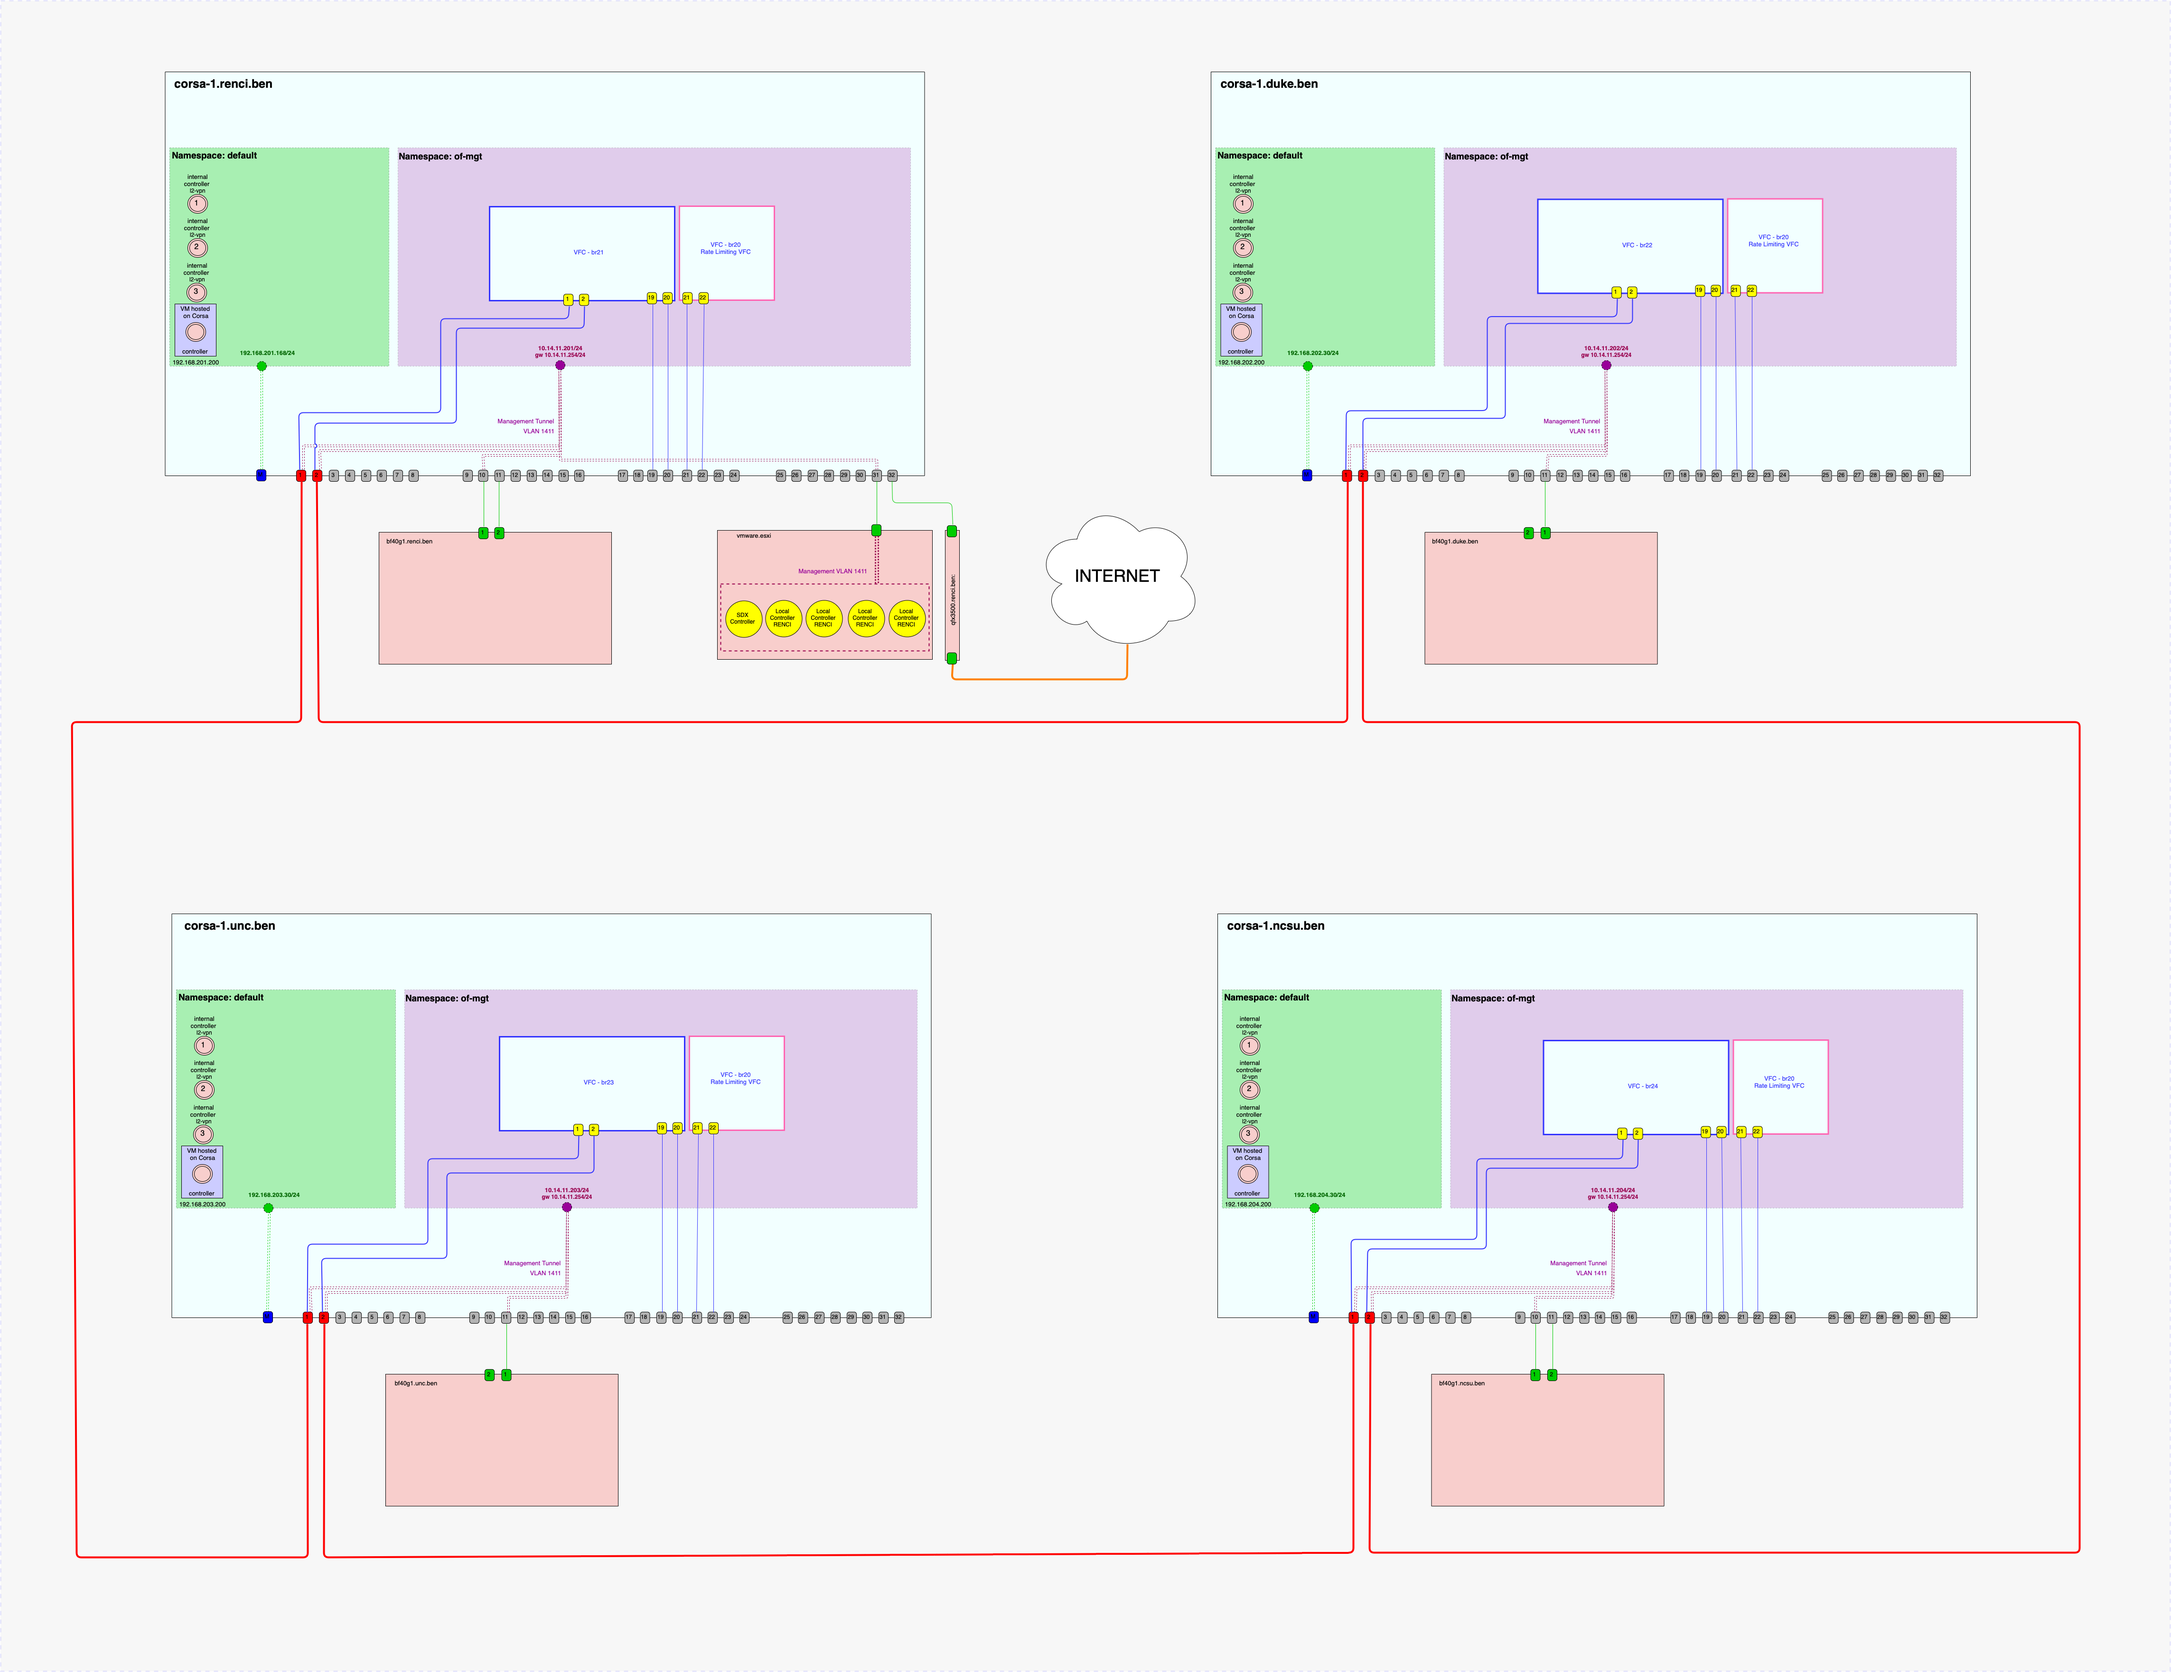
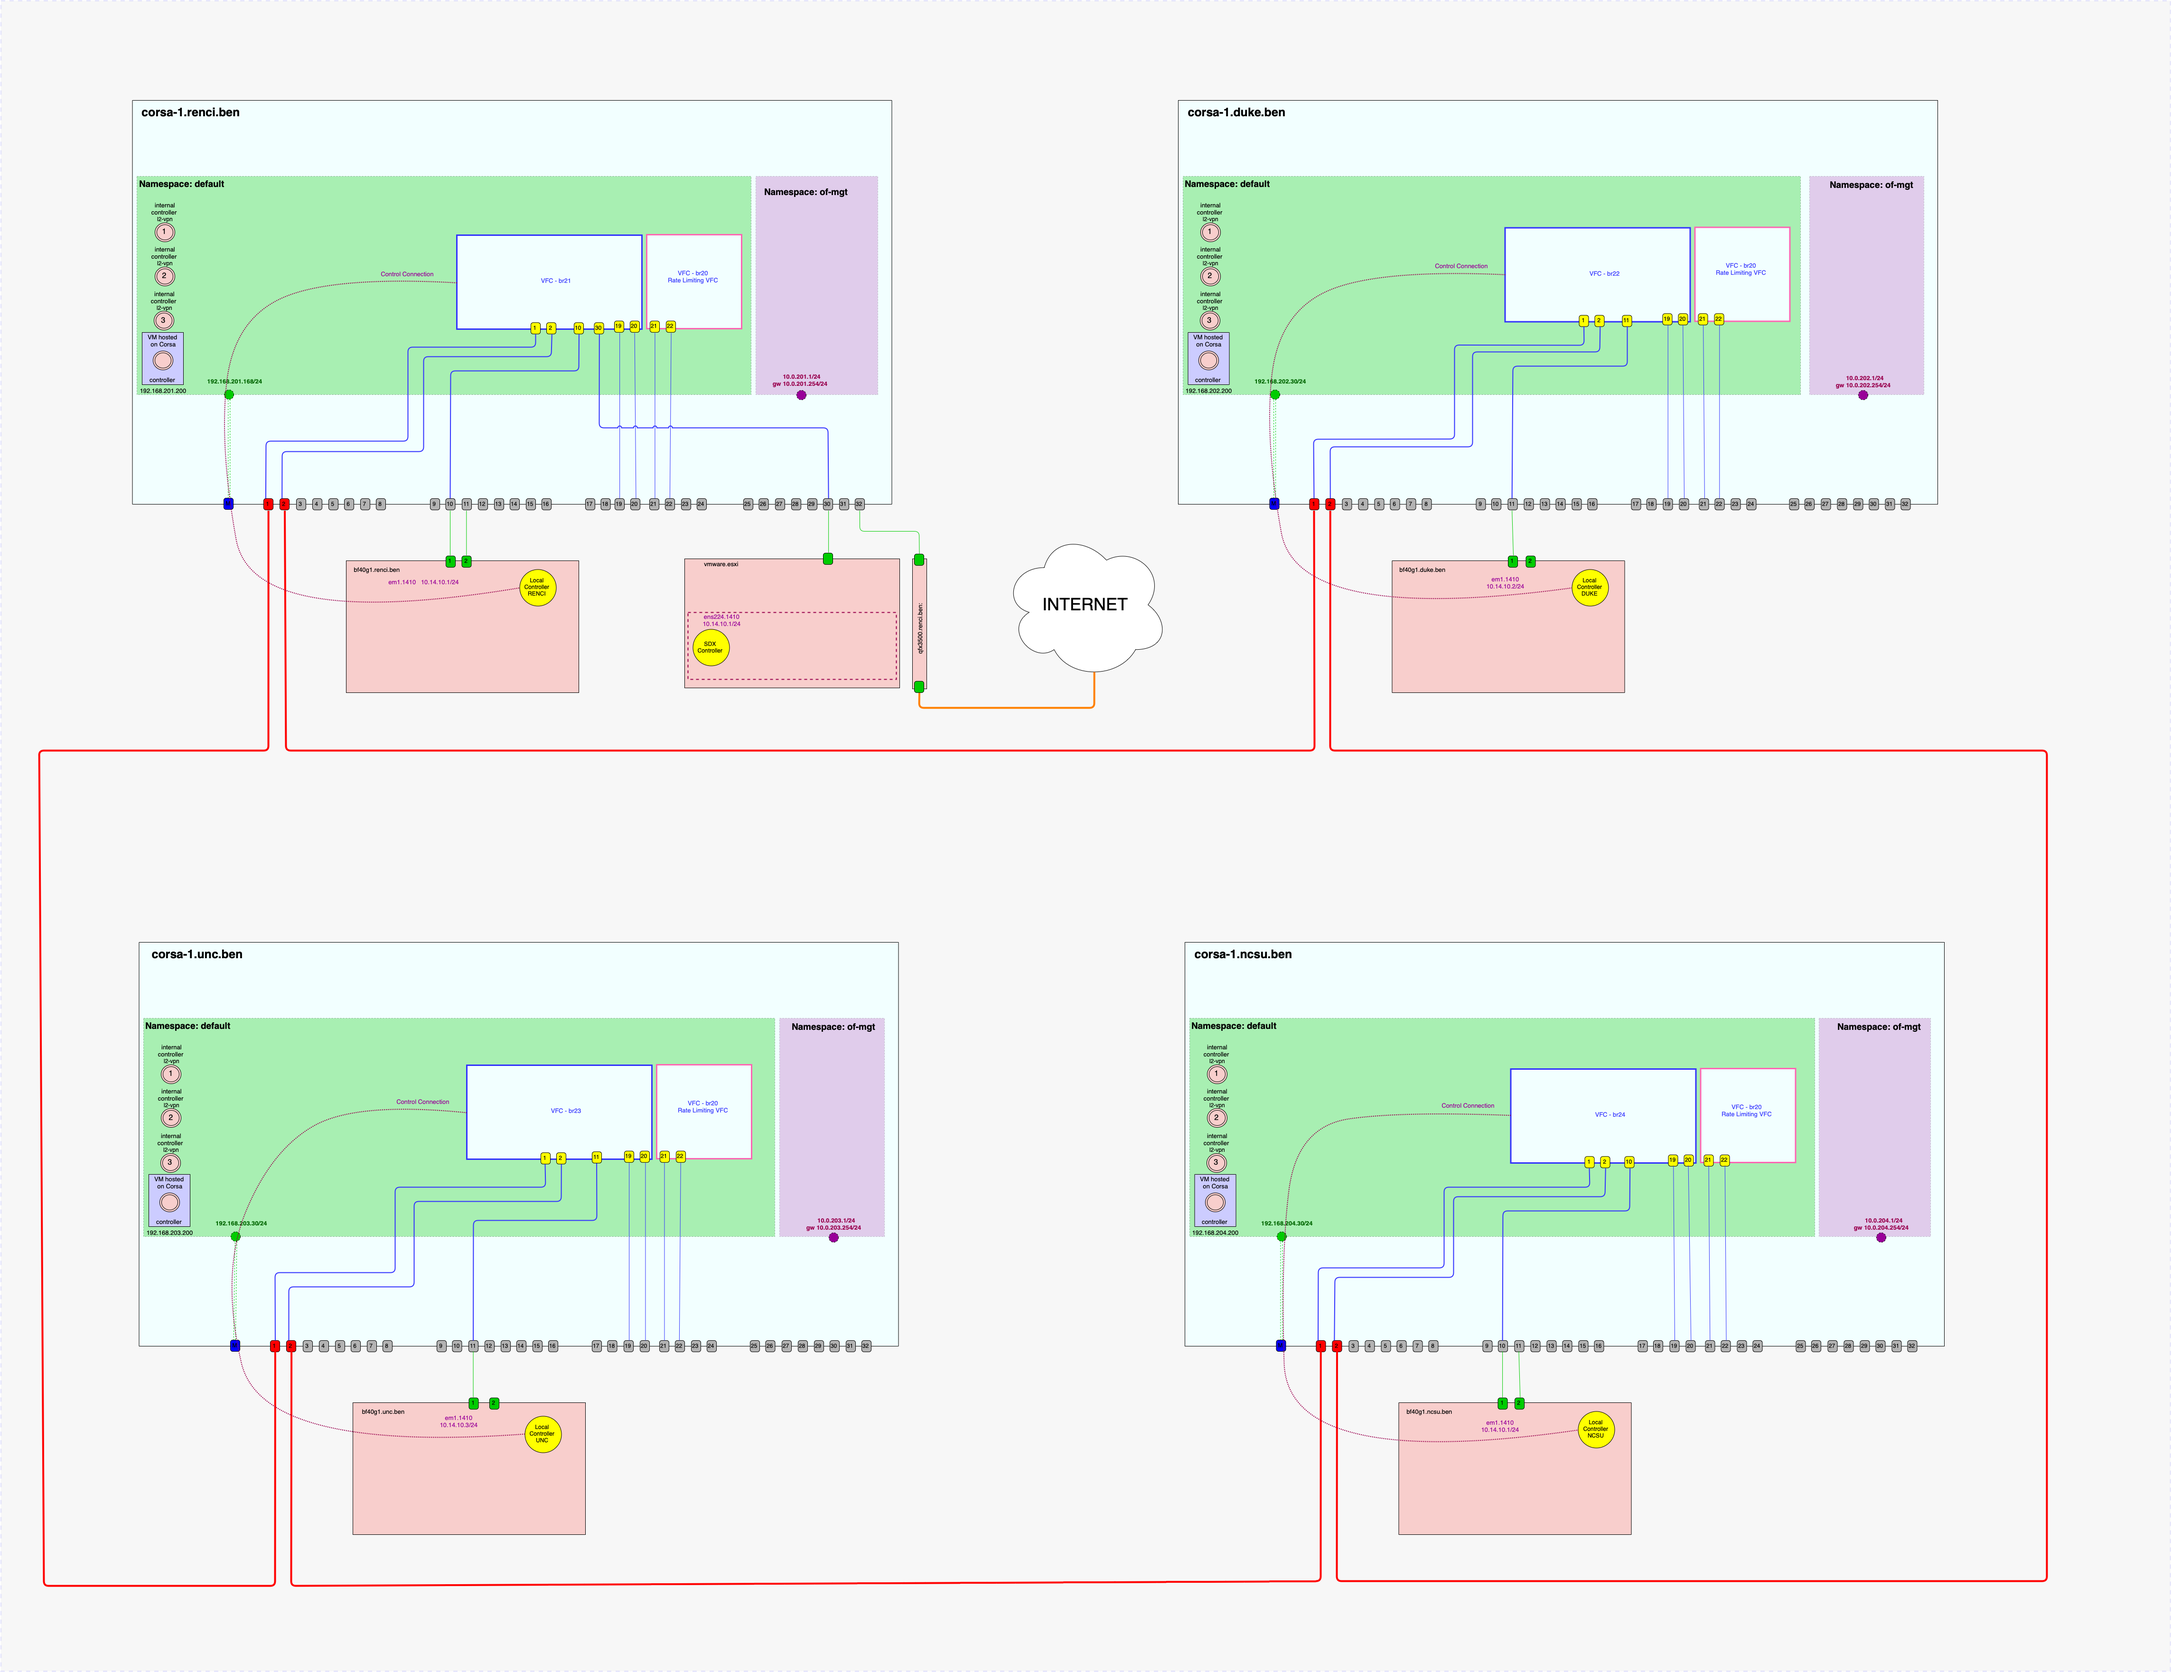
Updates for the working configuration

diff --git a/configuration/renci_testbed/README.md b/configuration/renci_testbed/README.md
@@ -8,15 +8,16 @@ Direct Link: https://drive.google.com/file/d/1BHdOv4X62mmVrFEbLGE5By1Nt3GNLBEo/v
 
 ```
 # Out-of-band management
+# OpenFlow Conrol Connection
 
 # SDX Controller
 192.168.201.156 atlanticwave-sdx-controller.renci.ben
 
-# Local Controllers
-192.168.201.171   atlanticwave-lc-renci.renci.ben
-192.168.202.172   atlanticwave-lc-duke.renci.ben
-192.168.203.173   atlanticwave-lc-unc.renci.ben
-192.168.204.174   atlanticwave-lc-ncsu.renci.ben
+# Local Controllers (running on BF40G Nodes)
+192.168.201.196   bf40g1.renci.ben  atlanticwave-lc-renci.renci.ben
+192.168.202.39    bg40g1.duke.ben   atlanticwave-lc-duke.renci.ben
+192.168.203.10    bg40g1.unc.ben    atlanticwave-lc-unc.renci.ben
+192.168.204.21    bg40g1.ncsu.ben   atlanticwave-lc-ncsu.renci.ben
 
 # Corsa Switches
 192.168.201.168   corsa-2.renci.ben
@@ -34,16 +35,10 @@ Direct Link: https://drive.google.com/file/d/1BHdOv4X62mmVrFEbLGE5By1Nt3GNLBEo/v
 10.14.11.254 atlanticwave-sdx-controller.renci.ben
 
 # Local Controllers
-10.14.11.101    atlanticwave-lc-renci.renci.ben
-10.14.11.102    atlanticwave-lc-duke.renci.ben
-10.14.11.103    atlanticwave-lc-unc.renci.ben
-10.14.11.104    atlanticwave-lc-ncsu.renci.ben
-
-# Corsa Switches
-10.14.11.201    corsa-2.renci.ben
-10.14.11.202    corsa-1.duke.ben
-10.14.11.203    corsa-1.unc.ben
-10.14.11.204    corsa-1.ncsu.ben
+10.14.11.1    atlanticwave-lc-renci.renci.ben
+10.14.11.2    atlanticwave-lc-duke.renci.ben
+10.14.11.3    atlanticwave-lc-unc.renci.ben
+10.14.11.4    atlanticwave-lc-ncsu.renci.ben
 
 ```
 
@@ -53,46 +48,41 @@ Direct Link: https://drive.google.com/file/d/1BHdOv4X62mmVrFEbLGE5By1Nt3GNLBEo/v
 
 ## Corsa Switches
 
-Guest namespaces are created and management tunnels are attached to provde access for in-band management of the overlay VFCs. 
-(Ref: DP2000_Config_Guide_UG-CDD0028-000-Rev002.pdf , Section 4 Management Interfaces, Page 27)
-Management tunnels are primarily attached for management ports (Port 1 and 2 on each switch). 
-If the local controller is running on the bf40g node, then a management tunnel needs to be attached for the node as well. 
+Ports are set to `passthrough` mode. (ctag mode strips off the VLAN tag that prevent flows with `dl_vlan` match field being pushed properly. This can be a pure openflow behavior that needs to be elaborated.)
+
+Openflow control connection is established through default namespace (and associated out-of-band management interface).
 
 ![alt text](figures/AW-SDX-Corsa-Tunnel-Layout.png)
 
 Direct Link: https://drive.google.com/file/d/1BHdOv4X62mmVrFEbLGE5By1Nt3GNLBEo/view?usp=sharing
 
-```
-### Configure Guest Namespaces on Corsa Switches
 
+Set port tunnel-modes
+
+```
 # RENCI
-configure netns add of-mgt-1411
-configure netns of-mgt-1411 mode static 10.14.11.201 255.255.255.0 10.14.11.254
-configure netns of-mgt-1411 tunnel attach 1 mgt-id mgt1 vlan-id 1411 shaped-rate 1000
-configure netns of-mgt-1411 tunnel attach 2 mgt-id mgt2 vlan-id 1411 shaped-rate 1000
-configure netns of-mgt-1411 tunnel attach 31 mgt-id mgt3 vlan-id 1411 shaped-rate 1000
-configure netns of-mgt-1411 tunnel attach 10 mgt-id mgt4 vlan-id 1411 shaped-rate 1000
+configure port 1 tunnel-mode passthrough
+configure port 2 tunnel-mode passthrough
+configure port 10 tunnel-mode passthrough
+configure port 30 tunnel-mode passthrough
 
 # DUKE
-configure netns add of-mgt-1411
-configure netns of-mgt-1411 mode static 10.14.11.202 255.255.255.0 10.14.11.254
-configure netns of-mgt-1411 tunnel attach 1 mgt-id mgt1 vlan-id 1411 shaped-rate 1000
-configure netns of-mgt-1411 tunnel attach 2 mgt-id mgt2 vlan-id 1411 shaped-rate 1000
-configure netns of-mgt-1411 tunnel attach 11 mgt-id mgt3 vlan-id 1411 shaped-rate 1000
+configure port 1 tunnel-mode passthrough
+configure port 2 tunnel-mode passthrough
+configure port 11 tunnel-mode passthrough
 
 # UNC
-configure netns add of-mgt-1411
-configure netns of-mgt-1411 mode static 10.14.11.203 255.255.255.0 10.14.11.254
-configure netns of-mgt-1411 tunnel attach 1 mgt-id mgt1 vlan-id 1411 shaped-rate 1000
-configure netns of-mgt-1411 tunnel attach 11 mgt-id mgt2 vlan-id 1411 shaped-rate 1000
+configure port 1 tunnel-mode passthrough
+configure port 2 tunnel-mode passthrough
+configure port 11 tunnel-mode passthrough
 
 # NCSU
-configure netns add of-mgt-1411
-configure netns of-mgt-1411 mode static 10.14.11.204 255.255.255.0 10.14.11.254
-configure netns of-mgt-1411 tunnel attach 2 mgt-id mgt1 vlan-id 1411 shaped-rate 1000
-configure netns of-mgt-1411 tunnel attach 10 mgt-id mgt2 vlan-id 1411 shaped-rate 1000
+configure port 1 tunnel-mode passthrough
+configure port 2 tunnel-mode passthrough
+configure port 10 tunnel-mode passthrough
 
 ```
+
 
 Create VFCs on all Corsa switches
 
@@ -101,37 +91,49 @@ Create VFCs on all Corsa switches
 configure bridge add br20 vpws resources 2
 configure bridge br20 controller add Eline 172.17.2.1 6653
 
-# Create VFC on renci switch (DPID 7573453565774) 
-configure bridge add br21 openflow resources 10 netns of-mgt-1411 
-configure bridge br21 controller add CONTbr21 10.14.11.101 6681
-configure bridge br21 tunnel attach ofport 1 port 1 vlan-range 1416-1499
-configure bridge br21 tunnel attach ofport 2 port 2 vlan-range 1416-1499
-configure bridge br21 tunnel attach ofport 19 port 19 vlan-range 1416-1499
-configure bridge br21 tunnel attach ofport 20 port 20 vlan-range 1416-1499
+# RENCI
+configure bridge add br21 openflow resources 10
+configure bridge br21 dpid 0xC9
+configure bridge br21 tunnel attach ofport 1 port 1
+configure bridge br21 tunnel attach ofport 2 port 2
+configure bridge br21 tunnel attach ofport 10 port 10
+configure bridge br21 tunnel attach ofport 30 port 30
+configure bridge br21 tunnel attach ofport 19 port 19 
+configure bridge br21 tunnel attach ofport 20 port 20 
+configure bridge br21 controller add CONTbr21 192.168.201.196 6681
 
-# Create VFC on duke switch (DPID 279552153404237)
-configure bridge add br22 openflow resources 10 netns of-mgt-1411
-configure bridge br22 controller add CONTbr22 10.14.11.102 6682
-configure bridge br22 tunnel attach ofport 1 port 1 vlan-range 1416-1499
-configure bridge br22 tunnel attach ofport 2 port 2 vlan-range 1416-1499
-configure bridge br22 tunnel attach ofport 19 port 19 vlan-range 1416-1499
-configure bridge br22 tunnel attach ofport 20 port 20 vlan-range 1416-1499
+# DUKE
 
-# Create VFC on unc switch (DPID 236202656471118)
-configure bridge add br23 openflow resources 10 netns of-mgt-1411 
-configure bridge br23 controller add CONTbr23 10.14.11.103 6683
-configure bridge br23 tunnel attach ofport 1 port 1 vlan-range 1416-1499
-configure bridge br23 tunnel attach ofport 2 port 2 vlan-range 1416-1499
-configure bridge br23 tunnel attach ofport 19 port 19 vlan-range 1416-1499
-configure bridge br23 tunnel attach ofport 20 port 20 vlan-range 1416-1499
+configure bridge add br22 openflow resources 10 
+configure bridge br22 dpid 0xCA
+configure bridge br22 tunnel attach ofport 1 port 1 
+configure bridge br22 tunnel attach ofport 2 port 2 
+configure bridge br22 tunnel attach ofport 11 port 11
+configure bridge br22 tunnel attach ofport 19 port 19 
+configure bridge br22 tunnel attach ofport 20 port 20 
+configure bridge br22 controller add CONTbr22 192.168.202.39 6682
 
-# Create VFC on ncsu switch (DPID 209215245675848)
-configure bridge add br24 openflow resources 10 netns of-mgt-1411 
-configure bridge br24 controller add CONTbr24 10.14.11.104 6684
-configure bridge br24 tunnel attach ofport 1 port 1 vlan-range 1416-1499
-configure bridge br24 tunnel attach ofport 2 port 2 vlan-range 1416-1499
-configure bridge br24 tunnel attach ofport 19 port 19 vlan-range 1416-1499
-configure bridge br24 tunnel attach ofport 20 port 20 vlan-range 1416-1499
+# UNC
+
+configure bridge add br23 openflow resources 10 
+configure bridge br23 dpid 0xCB
+configure bridge br23 tunnel attach ofport 1 port 1 
+configure bridge br23 tunnel attach ofport 2 port 2 
+configure bridge br23 tunnel attach ofport 11 port 11
+configure bridge br23 tunnel attach ofport 19 port 19 
+configure bridge br23 tunnel attach ofport 20 port 20 
+configure bridge br23 controller add CONTbr23 192.168.203.10 6683
+
+# NCSU
+
+configure bridge add br24 openflow resources 10 
+configure bridge br24 dpid 0xCC
+configure bridge br24 tunnel attach ofport 1 port 1 
+configure bridge br24 tunnel attach ofport 2 port 2 
+configure bridge br24 tunnel attach ofport 10 port 10 
+configure bridge br24 tunnel attach ofport 19 port 19 
+configure bridge br24 tunnel attach ofport 20 port 20 
+configure bridge br24 controller add CONTbr24  192.168.204.21 6684
 
 ```
 
@@ -151,6 +153,3 @@ Type of the controller and site names are extracted from hostnames.
 
 
 
-
-
- 
